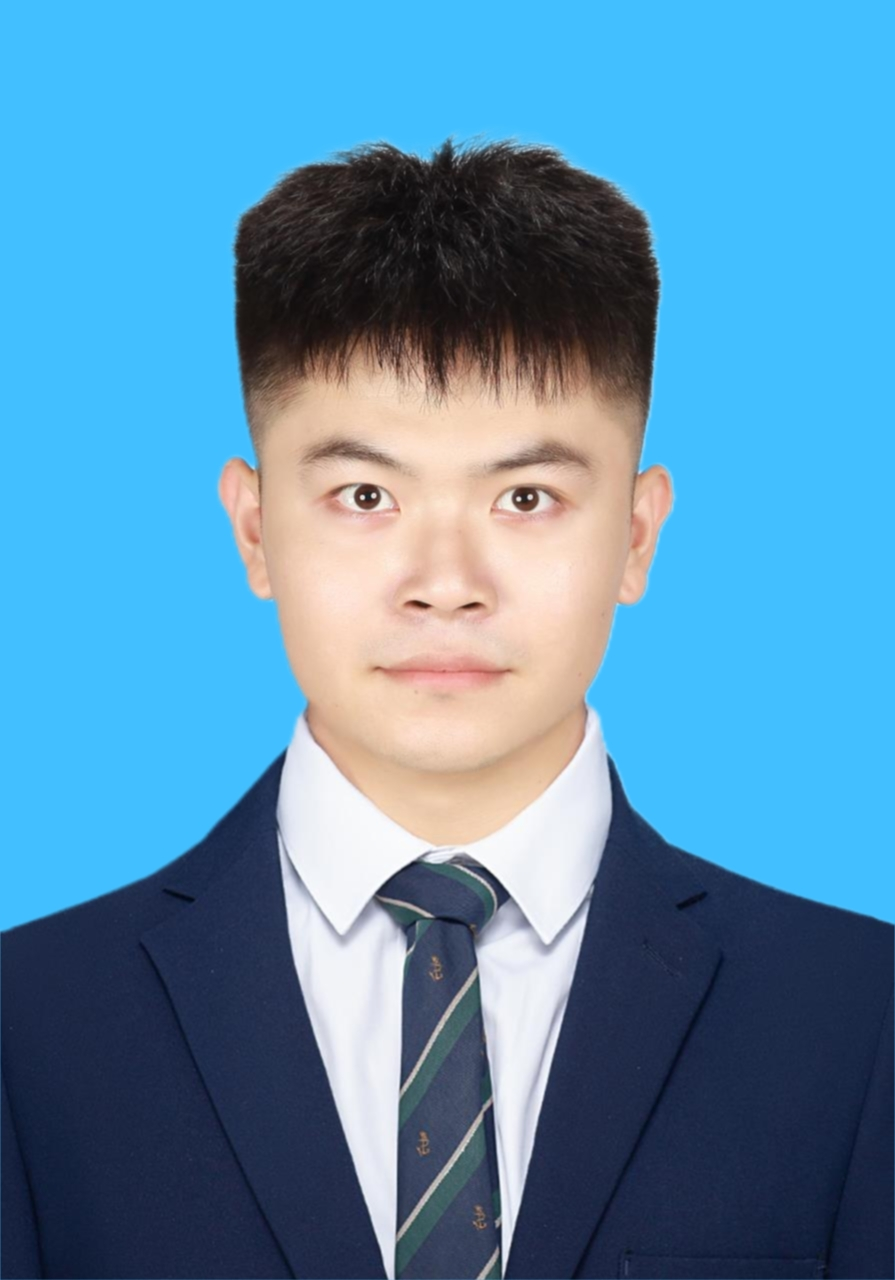
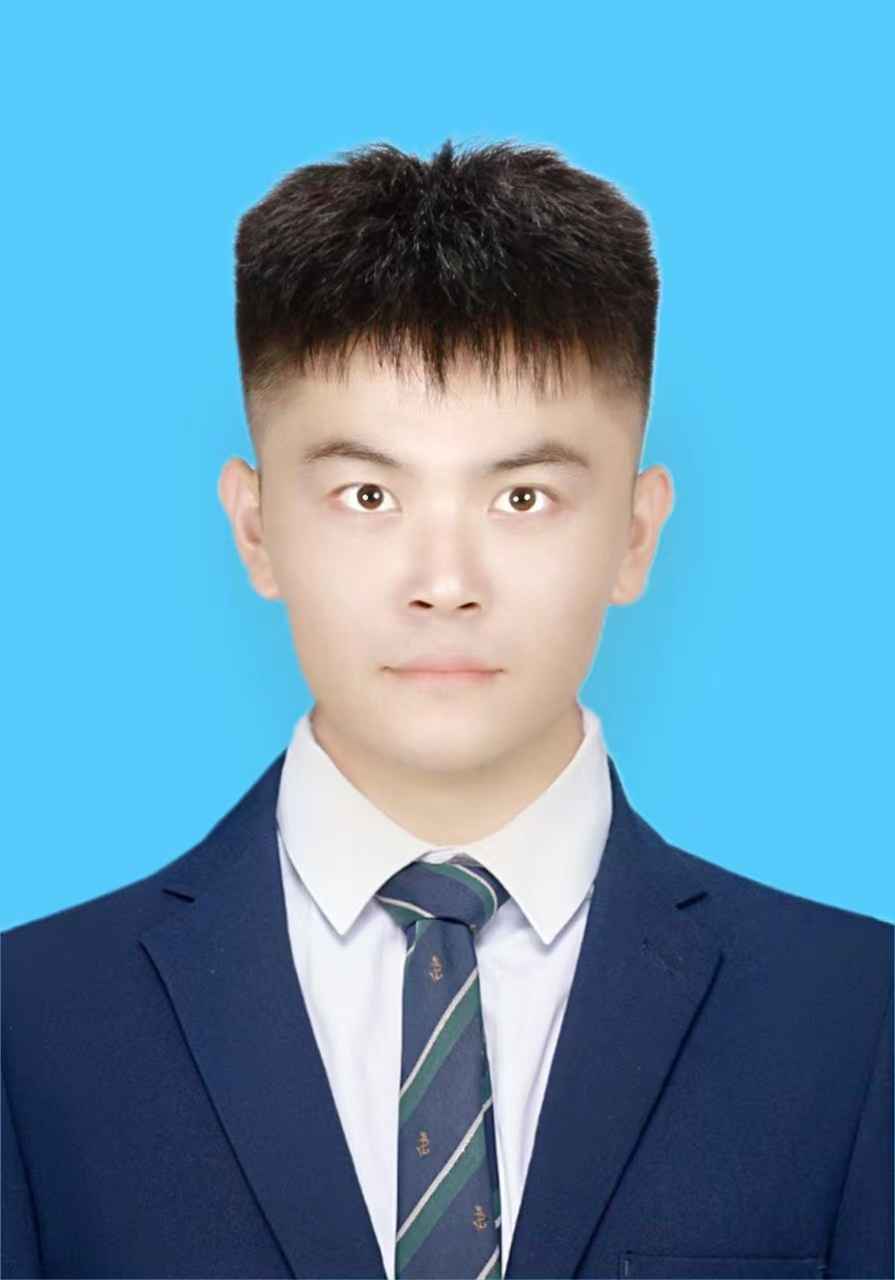
update

diff --git a/zh/project/index.html b/zh/project/index.html
@@ -708,6 +708,21 @@
 <h4 id="_academic-project_"><em>Academic Project</em></h4>
 <ul>
 <li>
+<p>January 2023 — December 2024</p>
+<p>泉城省实验室重点项目 在研</p>
+<p>噪声环境下恶意网络流量鲁棒性识别研究</p>
+</li>
+<li>
+<p>October 2021 — October 2024</p>
+<p>山东省科学技术厅（山东省重点研发计划（科技示范工程））山东省重大科技示范工程（子课题） 在研</p>
+<p>北斗智能精准定位技术集成及区域服务业创新示范</p>
+</li>
+<li>
+<p>October 2020 — December 2022</p>
+<p>山东省教育厅 在研</p>
+<p>基于网络行为的移动恶意应用智能化检测（青创科技计划）</p>
+</li>
+<li>
 <p>January 2017 – December 2020<br>
 Projects of the National Natural Science Foundation of China, 1500,000RMB，completed，host</p>
 <p>Deep Learning based Online Detection of Malicious Mobile Applications under Class Imbalanced Traffic Condition</p>
@@ -778,9 +793,58 @@ Research and Realization of Distributed Graduate Management Information System<b
 <h4 id="_awards-and-honors_"><em>Awards and Honors</em></h4>
 <ul>
 <li>
+<p>陈贞翔(1/10); 部队任务官兵心理健康智能测评装备及平台应用, 山东省人民政府, 科技进步, 省部二等奖, 2022(陈贞翔; 陈建章; 张康莉; 姜晓庆; 黄鹤林; 马坤; 冯志全; 赵川; 张波; 杨倩) (科研奖励)</p>
+</li>
+<li>
+<p>陈贞翔(4/9); 企业关系网络的供应链协作云服务平台及应用, 山东省人民政府, 科技进步, 省部二等
+奖, 2019(刘士军; 潘丽; 田裕惠; 陈贞翔; 武蕾; 马帅; 马坤; 李志; 荆山) (科研奖励)</p>
+</li>
+<li>
+<p>陈贞翔; 王闪闪; 杨波; 赵川; 孙润元; 荆山 ; 一种恶意网络流量词库的建立方法及建立系统,
+2020-10-30, 中国, ZL201611243293.1 (专利)</p>
+</li>
+<li>
+<p>陈贞翔; 曹栋; 杨波; 孙润元; 彭立志; 李群 ; Android应用程序网络流量的远程采集系统及方法,
+2019-8-2, 中国, ZL201610679169.3 (专利)</p>
+</li>
+<li>
+<p>陈贞翔; 沈静雅; 王闪闪; 杨波; 荆山; 纪科 ; 基于网络流量多视图融合的恶意软件检测方法及系统, 2020-10-23, 中国, ZL201811030880.1 (专利)</p>
+</li>
+<li>
+<p>陈贞翔; 王闪闪; 杨波; 孙润元; 荆山; 马坤 ; 基于恶意网络流量词库的恶意软件检测可视化方法及系统, 2019-5-14, 中国, ZL201611243535.7 (专利)</p>
+</li>
+<li>
+<p>陈贞翔; 曹栋; 杨波; 孙润元; 彭立志; 王闪闪 ; Android应用程序界面自动遍历方法及系统,
+2018-8-10, 中国, ZL201610676744.4 (专利)</p>
+</li>
+<li>
+<p>陈贞翔; 李群; 张蕾; 杨波; 韩泓波; 曹栋 ; 具有移动终端恶意软件行为检测能力的代理服务器及方法, 2018-1-12, 中国, ZL201510487184.3 (专利)</p>
+</li>
+<li>
+<p>陈贞翔; 杨波; 韩泓波; 张蕾; 彭立志; 荆山 ; 基于网络接入点的移动终端恶意软件检测方法及其系统, 2018-1-2, 中国, 201510487144.9 (专利)</p>
+</li>
+<li>
+<p>王闪闪; 陈贞翔; 孙润元; 杨波; 彭立志; 刘鹍 ; 基于恶意网络流量词库的恶意软件检测方法及系统, 2016-12-1, 中国, 201611243439.2 (专利)</p>
+</li>
+<li>
+<p>National First-class Undergraduate Courses<br>
+国家级一流本科课程<br>
+2023</p>
+</li>
+<li>
+<p>Teaching Achievement Second Prize Of Shandong Province<br>
+山东省省级教学成果二等奖<br>
+2018</p>
+</li>
+<li>
 <p>Excellent Graduate Advisor Award of the University of Jinan<br>
 优秀研究生导师<br>
 2016</p>
+</li>
+<li>
+<p>Graduate Education Teaching Achievement Second Award Of Shandong Provincial
+山东省研究生教育省级教学成果二等奖<br>
+2014</p>
 </li>
 <li>
 <p>An Executable Business Model for Generic Web Applications, Best paper award<br>

diff --git a/zh/author/刘少磊/index.html b/zh/author/刘少磊/index.html
@@ -312,8 +312,8 @@
   <meta property="og:site_name" content="UJN-网络智能实验室" />
   <meta property="og:url" content="https://ujnloci.github.io/zh/author/%E5%88%98%E5%B0%91%E7%A3%8A/" />
   <meta property="og:title" content="刘少磊 | UJN-网络智能实验室" />
-  <meta property="og:description" content="A highly-customizable Hugo research group theme powered by Wowchemy website builder." /><meta property="og:image" content="https://ujnloci.github.io/zh/author/%E5%88%98%E5%B0%91%E7%A3%8A/avatar_hub2bd2d81c788cd88181203e2da423f9c_258726_270x270_fill_q75_lanczos_center.jpg" />
-    <meta property="twitter:image" content="https://ujnloci.github.io/zh/author/%E5%88%98%E5%B0%91%E7%A3%8A/avatar_hub2bd2d81c788cd88181203e2da423f9c_258726_270x270_fill_q75_lanczos_center.jpg" /><meta property="og:locale" content="zh-Hans" />
+  <meta property="og:description" content="A highly-customizable Hugo research group theme powered by Wowchemy website builder." /><meta property="og:image" content="https://ujnloci.github.io/zh/author/%E5%88%98%E5%B0%91%E7%A3%8A/avatar_hu386819b3095ef1cbe0e83d57f9d2252a_164113_270x270_fill_q75_lanczos_center.jpg" />
+    <meta property="twitter:image" content="https://ujnloci.github.io/zh/author/%E5%88%98%E5%B0%91%E7%A3%8A/avatar_hu386819b3095ef1cbe0e83d57f9d2252a_164113_270x270_fill_q75_lanczos_center.jpg" /><meta property="og:locale" content="zh-Hans" />
   
     
   
@@ -685,7 +685,7 @@
       
       <img class="avatar avatar-circle"
            width="270" height="270"
-           src="/zh/author/%E5%88%98%E5%B0%91%E7%A3%8A/avatar_hub2bd2d81c788cd88181203e2da423f9c_258726_270x270_fill_q75_lanczos_center.jpg" alt="刘少磊">
+           src="/zh/author/%E5%88%98%E5%B0%91%E7%A3%8A/avatar_hu386819b3095ef1cbe0e83d57f9d2252a_164113_270x270_fill_q75_lanczos_center.jpg" alt="刘少磊">
       
 
       <div class="portrait-title">
@@ -730,7 +730,7 @@
     
 
     <div class="article-style">
-      <p>very good！</p>
+      <p>我最可爱！</p>
 
     </div>
 
@@ -741,7 +741,7 @@
         <div class="section-subheading">兴趣爱好</div>
         <ul class="ul-interests mb-0">
           
-          <li>网络安全、人工智能</li>
+          <li>移动安全、人工智能、爱吃能吃、探店</li>
           
         </ul>
       </div>

diff --git a/zh/people/index.html b/zh/people/index.html
@@ -991,7 +991,7 @@
     
     
       
-      <a href="/zh/author/%E5%88%98%E5%B0%91%E7%A3%8A/"><img width="270" height="270" loading="lazy" class="avatar avatar-circle" src="/zh/author/%E5%88%98%E5%B0%91%E7%A3%8A/avatar_hub2bd2d81c788cd88181203e2da423f9c_258726_270x270_fill_q75_lanczos_center.jpg" alt="Avatar"></a>
+      <a href="/zh/author/%E5%88%98%E5%B0%91%E7%A3%8A/"><img width="270" height="270" loading="lazy" class="avatar avatar-circle" src="/zh/author/%E5%88%98%E5%B0%91%E7%A3%8A/avatar_hu386819b3095ef1cbe0e83d57f9d2252a_164113_270x270_fill_q75_lanczos_center.jpg" alt="Avatar"></a>
     
 
     <div class="portrait-title">
@@ -1017,7 +1017,7 @@
   
 </ul>
 
-      <p class="people-interests">网络安全、人工智能</p>
+      <p class="people-interests">移动安全、人工智能、爱吃能吃、探店</p>
     </div>
   </div>
   
